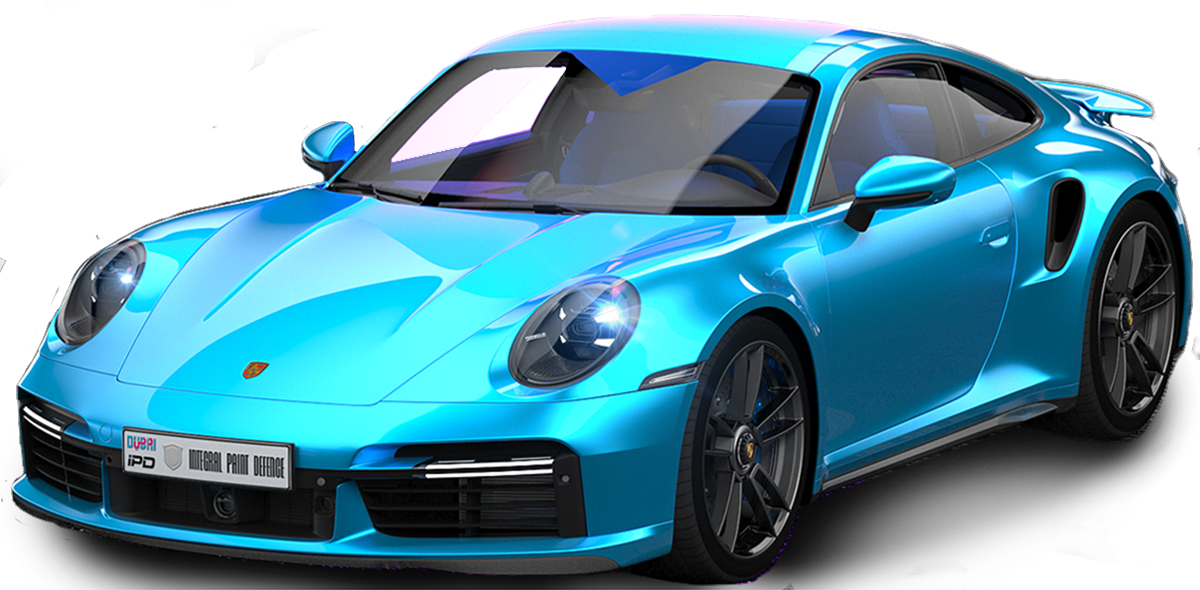
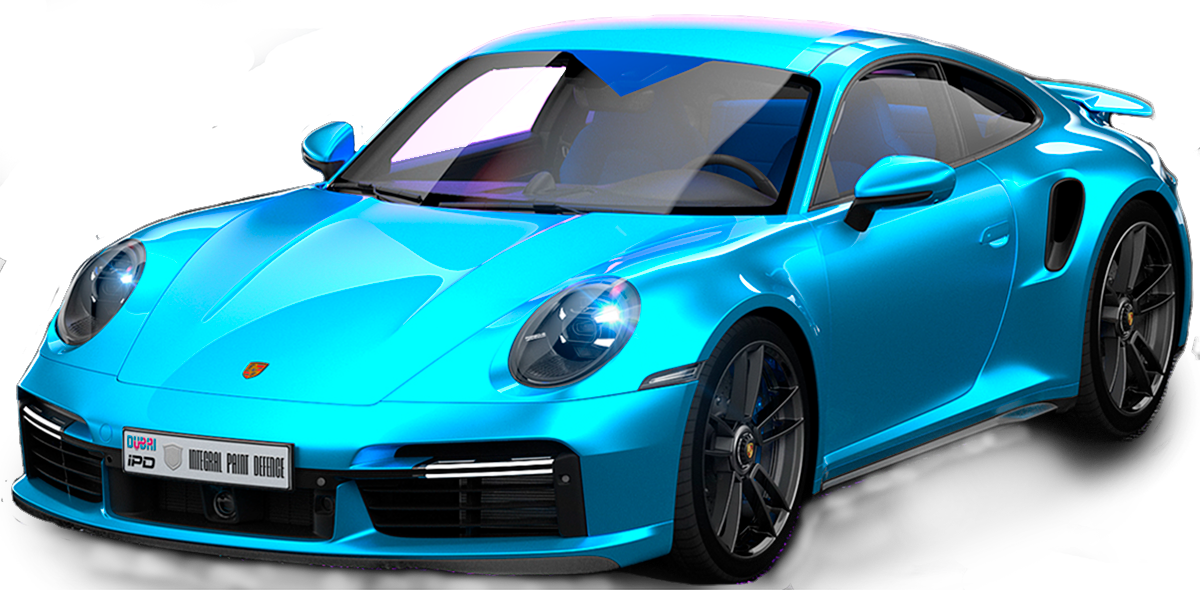
add shadow

diff --git a/js/moveCar.js b/js/moveCar.js
@@ -1,23 +1,38 @@
 export function moveCar(loop) {
   const car = gsap
     .timeline({ yoyo: true })
-    .to('.car-wrapper', {
+    .to('.car', {
       opacity: 0,
       x: loop.direction() === 'right' ? '50%' : '-50%',
       y: loop.direction() === 'right' ? '-90%' : '90%',
       duration: 0.4,
       ease: 'power1.inOut',
     })
-    .to('.car-wrapper', {
+    .to(
+      '.car-shadow',
+      {
+        opacity: 0,
+      },
+      '<'
+    )
+    .to('.car', {
       x: loop.direction() === 'right' ? '-50%' : '50%',
       y: loop.direction() === 'right' ? '90%' : '-90%',
       duration: 0,
     })
-    .to('.car-wrapper', {
+    .to('.car', {
       x: 0,
       y: 0,
       opacity: 1,
       duration: 0.4,
-    });
+    })
+    .to(
+      '.car-shadow',
+      {
+        opacity: 0.7,
+        duration: 0.4,
+      },
+      '>'
+    );
   return car;
 }

diff --git a/js/main.js b/js/main.js
@@ -35,7 +35,7 @@ const preloadedSponsorsImgs = sponsorNames.reduce((accum, next) => {
 }, {});
 
 const serviceText = document.querySelector('#service-text');
-const carWrapper = document.querySelector('.car-wrapper');
+const car = document.querySelector('.car');
 const sponsorList = document.querySelector('.sponsor-list');
 
 const boxes = gsap.utils.toArray('.service');
@@ -76,8 +76,8 @@ const loop = horizontalLoop(boxes, {
 function setService(curIndex) {
   serviceText.textContent = content[curIndex].text;
   setTimeout(() => {
-    carWrapper.innerHTML = '';
-    carWrapper.appendChild(preloadedCarImgs[curIndex]);
+    car.innerHTML = '';
+    car.appendChild(preloadedCarImgs[curIndex]);
     setSponsors(sponsorList, preloadedSponsorsImgs, content[curIndex].sponsors);
   }, 300);
 }

diff --git a/style.css b/style.css
@@ -235,7 +235,6 @@ button {
 
 .car-wrapper {
   position: fixed;
-  width: 100%;
   top: 54%;
   left: 49%;
   transform: translate(-50%, -50%);
@@ -246,7 +245,22 @@ button {
     object-fit: contain;
     height: 44vh;
     width: auto;
+    z-index: 1;
   }
+}
+
+.car-shadow {
+  background: url('assets/images/car-shadow.png');
+  background-position: center;
+  background-size: contain;
+  background-repeat: no-repeat;
+  position: absolute;
+  opacity: 0.7;
+  top: 0;
+  bottom: -50px;
+  left: 0;
+  right: 0;
+  z-index: 0;
 }
 
 @media screen and (max-height: 800px) {

diff --git a/index.html b/index.html
@@ -75,8 +75,10 @@
       </div>
 
       <div class="car-wrapper">
-
-        <!-- Внутри блоки формируются из JS -->
+        <div class="car-shadow"></div>
+        <div class="car">
+          <!-- Внутри блоки формируются из JS -->
+        </div>
       </div>
 
       <div class="bottom-wrapper">
